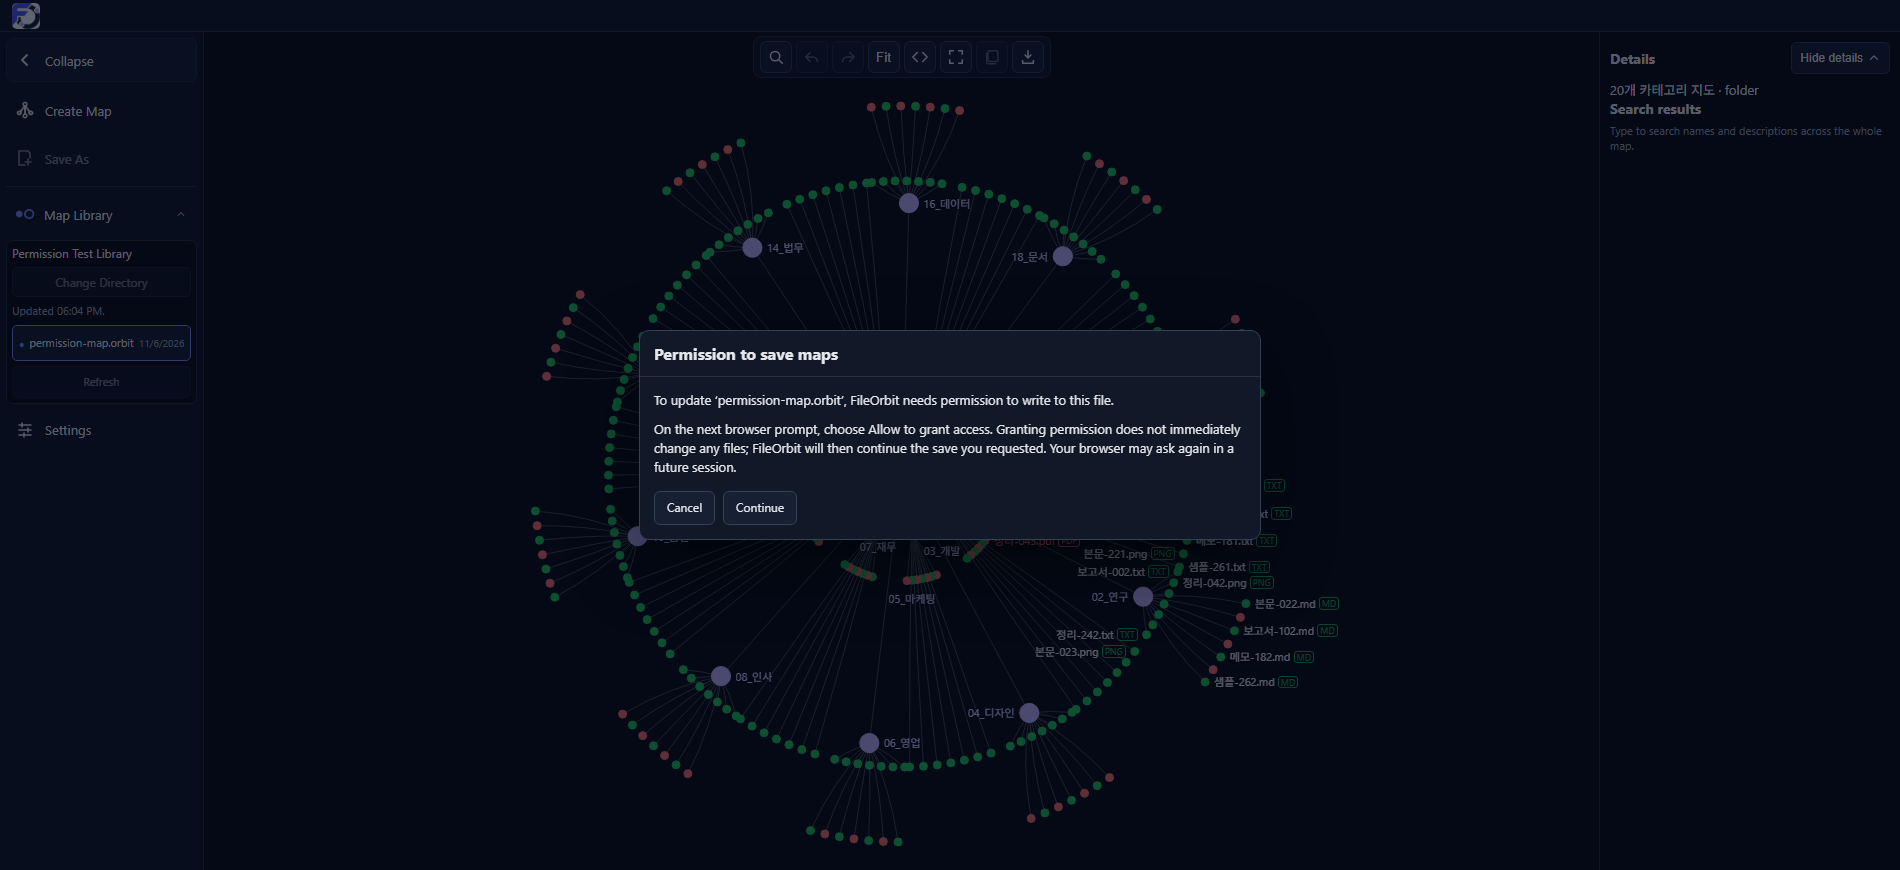
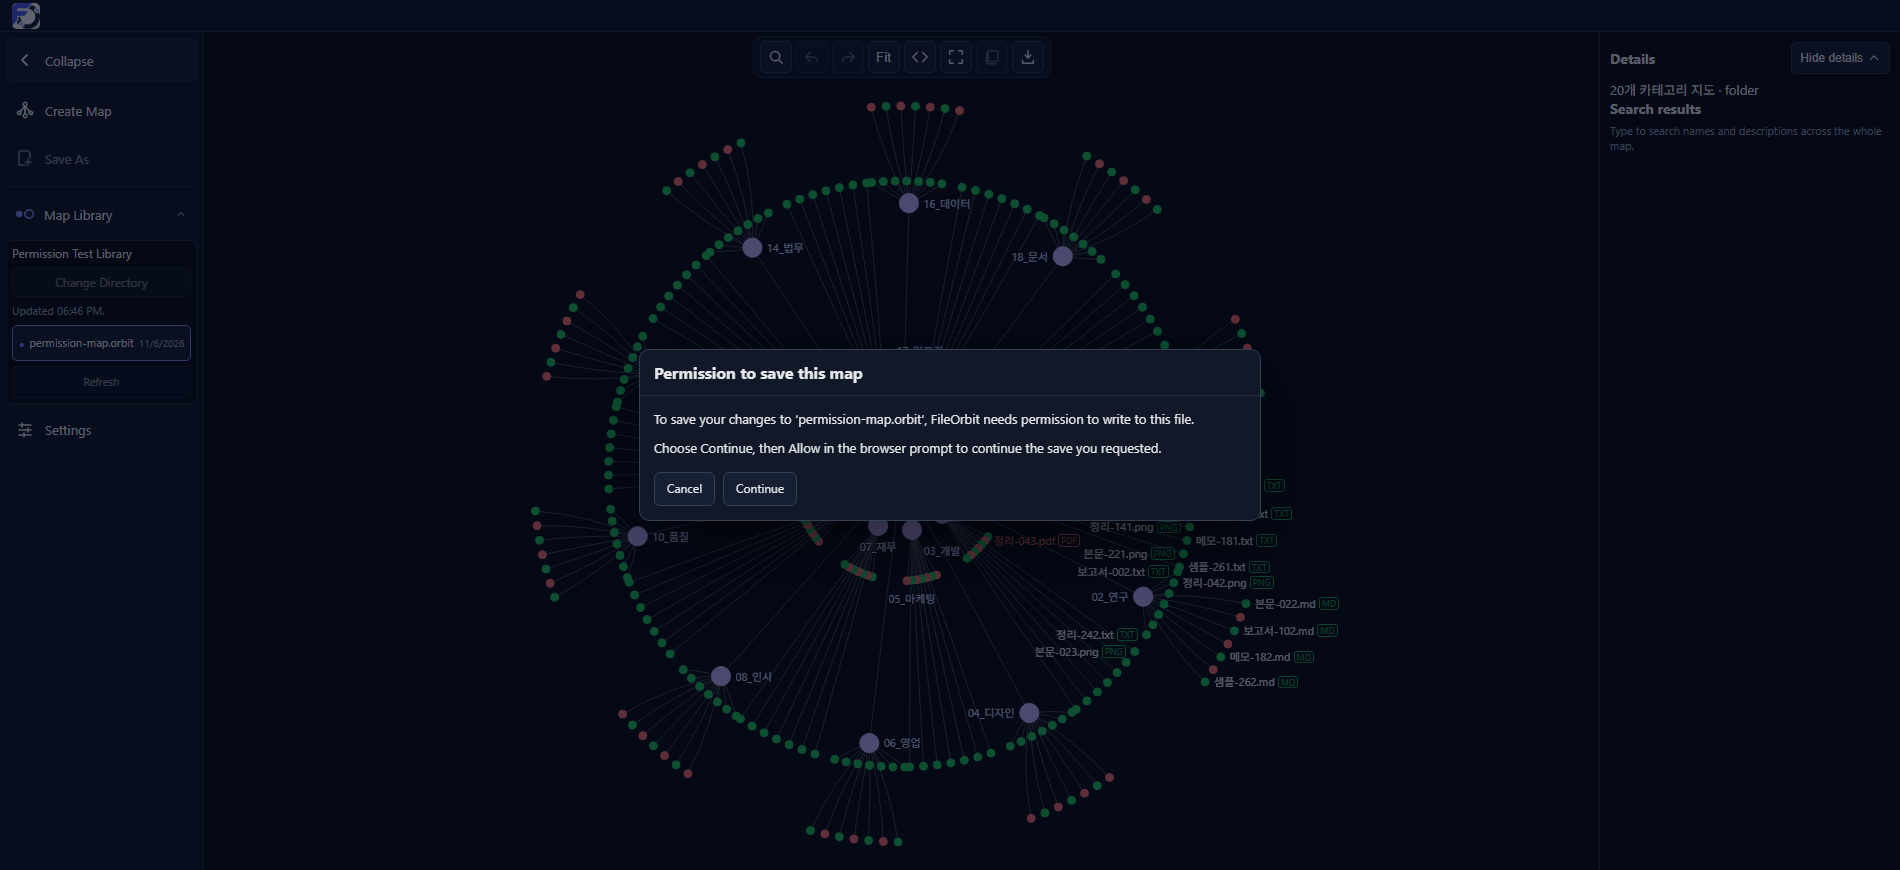
Add Map Library and save permission guidance

Changed region(s): [[0.3416, 0.4034, 0.6521, 0.6207], [0.59, 0.3724, 0.6211, 0.4034]]

diff --git a/tests/harness/m5-exploration/permission-dialog.js b/tests/harness/m5-exploration/permission-dialog.js
@@ -1,4 +1,4 @@
-export function createPermissionDialog({ document, host } = {}) {
+export function createPermissionDialog({ document, host } = {}) {
   if (!document || !host) throw new Error('permission dialog requires document and host');
   const backdrop = document.createElement('div');
   host.append(backdrop);
@@ -14,7 +14,6 @@
   head.className = 'embed-dialog-head';
   const title = document.createElement('h2');
   title.id = 'permission-dialog-title';
-  title.textContent = 'Permission to save maps';
   head.append(title);
   const copy = document.createElement('div');
   copy.className = 'embed-dialog-copy';
@@ -28,7 +27,6 @@
   cancel.textContent = 'Cancel';
   const proceed = document.createElement('button');
   proceed.type = 'button';
-  proceed.textContent = 'Continue';
   actions.append(cancel, proceed);
   copy.append(body, browserNote, actions);
   dialog.append(head, copy);
@@ -76,16 +74,25 @@
   proceed.addEventListener('click', () => close(true));
   backdrop.addEventListener('mousedown', (event) => { if (event.target === backdrop) close(false); });
 
-  function show({ directoryName = 'this folder', fileSpecific = false, fileName = '' } = {}) {
+  function show({ mode = 'save', directoryName = 'this folder', fileName = '', fileSpecific = false } = {}) {
     if (open) return Promise.resolve(false);
     open = true;
     resolvePromise = null;
     lastFocus = document.activeElement;
-    const name = String(fileSpecific ? (fileName || directoryName) : directoryName || 'this folder');
-    body.textContent = fileSpecific
-      ? `To update ‘${name}’, FileOrbit needs permission to write to this file.`
-      : `To create or update maps in ‘${name}’, FileOrbit needs permission to write to this folder.`;
-    browserNote.textContent = 'On the next browser prompt, choose Allow to grant access. Granting permission does not immediately change any files; FileOrbit will then continue the save you requested. Your browser may ask again in a future session.';
+    if (mode === 'library') {
+      title.textContent = 'Connect a Map Library folder';
+      body.textContent = 'This folder stores and organizes the topic maps you create.';
+      browserNote.textContent = 'In the next browser permission prompt, choose Allow so FileOrbit can list and open maps in the selected folder. Saving a map may require additional permission. Connecting a folder does not change or delete any files.';
+      proceed.textContent = 'Choose Folder';
+    } else {
+      const name = String(fileSpecific ? (fileName || directoryName) : directoryName || 'this folder');
+      title.textContent = 'Permission to save this map';
+      body.textContent = fileSpecific
+        ? `To save your changes to ‘${name}’, FileOrbit needs permission to write to this file.`
+        : `To save changes in ‘${name}’, FileOrbit needs permission to write to this folder.`;
+      browserNote.textContent = 'Choose Continue, then Allow in the browser prompt to continue the save you requested.';
+      proceed.textContent = 'Continue';
+    }
     backdrop.hidden = false;
     cancel.focus();
     return new Promise((resolve) => { resolvePromise = resolve; });
@@ -93,6 +100,8 @@
 
   return {
     show,
+    showLibraryConnection() { return show({ mode: 'library' }); },
+    showSavePermission(options = {}) { return show({ ...options, mode: 'save' }); },
     close,
     get open() { return open; },
     element: backdrop,
@@ -102,5 +111,3 @@
     }
   };
 }
-
-

diff --git a/tests/harness/m5-exploration/orbit-state.js b/tests/harness/m5-exploration/orbit-state.js
@@ -250,7 +250,7 @@ export function createOrbitStateController({ adapter, now = () => Date.now() } =
       stage: 'restore',
       message: reason === 'permission-denied'
         ? 'Map Library access is denied. Reconnect Map Library or choose another directory.'
-        : 'Reconnect Map Library to grant access to this directory.',
+        : 'Your browser needs permission to reconnect FileOrbit to this folder. Click Reconnect Map Library, then allow access in the browser prompt.',
       errorName: '', errorMessage: ''
     };
     settledPhase = 'blocked';
@@ -350,6 +350,7 @@ export function createOrbitStateController({ adapter, now = () => Date.now() } =
 
   return { openDirectory, adoptDirectory, restoreDirectory, refresh, matchEntry, close, destroy, snapshot };
 }
+
 
 
 

diff --git a/docs/engine/FILEORBIT-PC-LARGE-MAP-INTEGRATION.md b/docs/engine/FILEORBIT-PC-LARGE-MAP-INTEGRATION.md
@@ -702,3 +702,15 @@ Verification uses a native OPFS file handle for the read-only Library/open path,
 ### Permission dialog startup visibility
 
 The permission backdrop uses a dedicated `.permission-dialog-backdrop` class with an explicit `[hidden] { display: none !important; visibility: hidden; pointer-events: none; }` rule. The author `display:grid` overlay style no longer overrides native hidden presentation. Cancel/Continue use compact application button styling. A clean-startup regression verifies computed display/bounds, pointer hit testing, Create Map/Map Library controls, explicit dialog population, Cancel without request, Continue with request, and no empty backdrop after close/reload in both themes.
+
+## Permission guidance refinement
+
+Choose/Change Directory now opens a centered explanation before the native read-mode picker:
+
+“Connect a Map Library folder” — explains that the folder stores topic maps, the next browser prompt is for listing/opening maps, saving may need extra permission, and connecting does not change or delete files. Cancel closes without invoking the picker. Choose Folder invokes the existing picker from the explicit action.
+
+Startup restoration queries read permission silently. Prompt-required inline guidance tells the user to click Reconnect Map Library and allow in the browser prompt; no startup modal is shown. Reconnect queries again first: already-granted access refreshes without another request. Denial preserves the directory and Change Directory.
+
+Explicit save uses “Permission to save this map” and destination-specific file/folder wording. Continue triggers the native request; Cancel/denial preserves unsaved state; background saves never prompt or request.
+
+Native browser permission prompts remain intact and outside FileOrbit control. Delete Map File is not implemented or advertised.

diff --git a/tests/harness/m5-exploration/integration-checks/README.md b/tests/harness/m5-exploration/integration-checks/README.md
@@ -79,3 +79,6 @@ These use test hooks/picker stubs, not native OS acceptance.
 - `hypertree-save-permission-check.mjs`: read-only Library picker/open, centered write dialog, deferred Continue request, cancel/deny preservation, already-granted and automatic-save no-prompt behavior.
 
 - `hypertree-permission-startup-check.mjs`: clean startup with computed hidden backdrop, light/dark checks, controls clickable, populated dialog, Cancel/Continue, refresh cleanup.
+
+- Library connect explanation tests cover Cancel/no picker, Choose Folder/read mode, picker cancellation, and no explanation on Refresh.
+- Reconnect tests cover inline guidance, granted-without-new-request, request denial and preserved directory.
